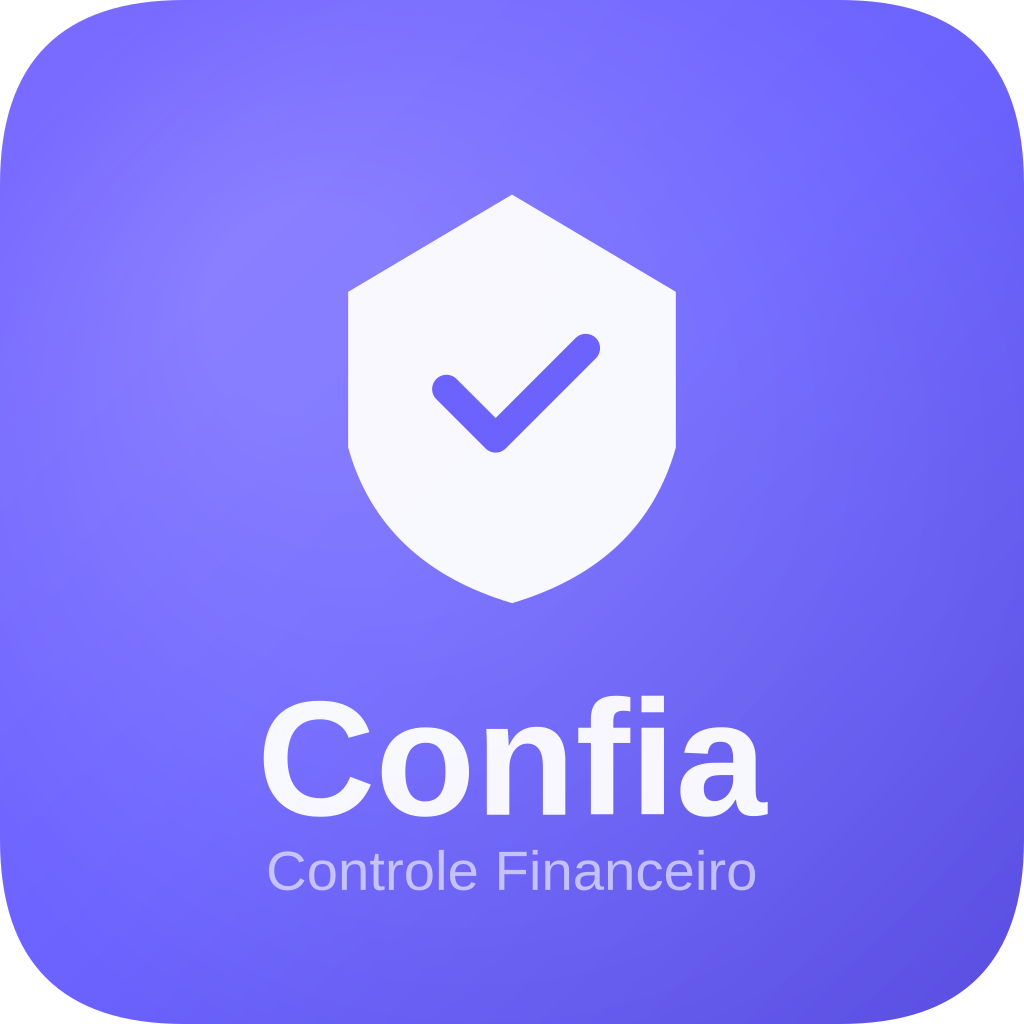
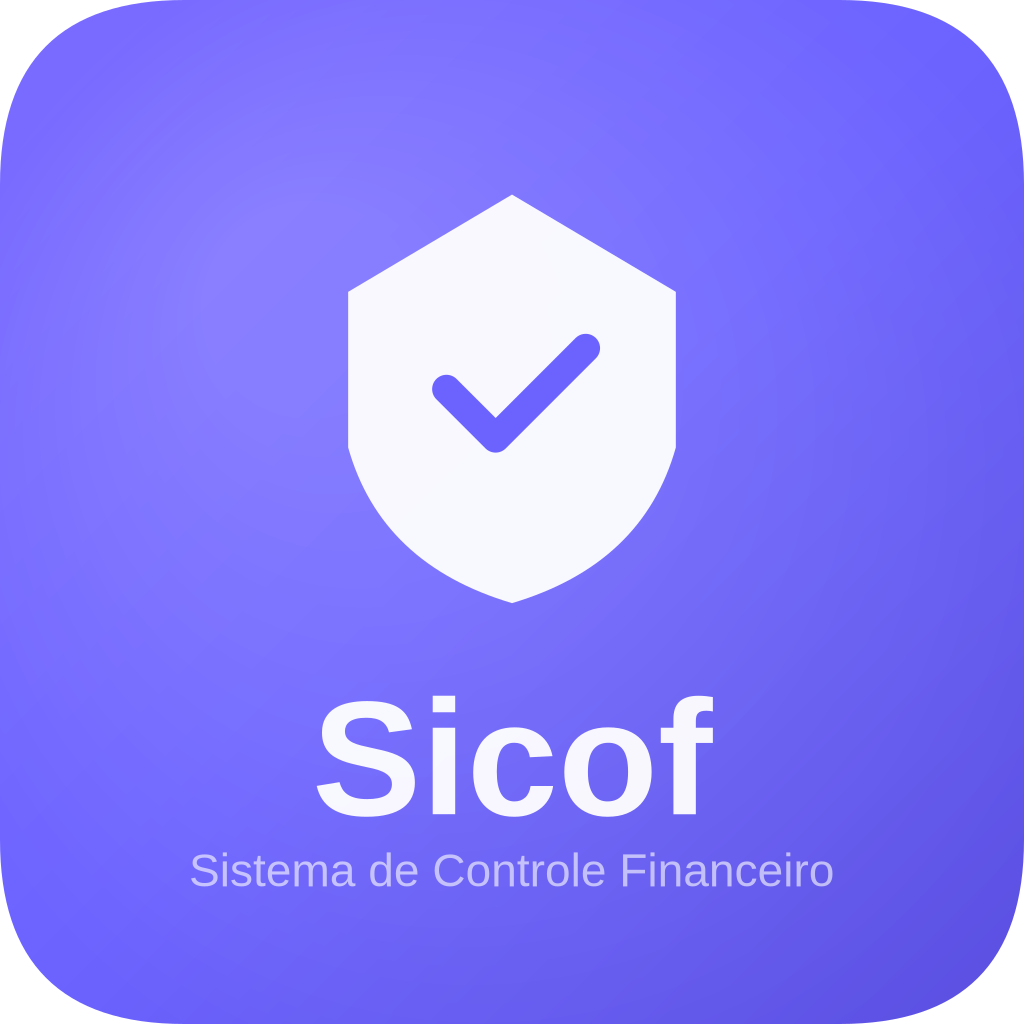
feat: rename app to Sicof - Sistema de Controle Financeiro
- Renamed from Confia to Sicof
- Updated logo with 'Sicof' name and 'Sistema de Controle Financeiro' subtitle
- Updated Android package to com.sicof.app
- Regenerated all icon assets with new branding

Changed region(s): [[0.1875, 0.6562, 0.8125, 0.875]]

diff --git a/src/screens/DashboardScreen.tsx b/src/screens/DashboardScreen.tsx
@@ -71,7 +71,7 @@ export default function DashboardScreen() {
   return (
     <ScrollView style={styles.container} showsVerticalScrollIndicator={false}>
       <View style={styles.header}>
-        <Text style={styles.greeting}>Confia</Text>
+        <Text style={styles.greeting}>Sicof</Text>
         <View style={styles.monthSelector}>
           <TouchableOpacity onPress={() => setMonthOffset(prev => prev - 1)} style={styles.monthBtn}>
             <Feather name="chevron-left" size={20} color={COLORS.primary} />
